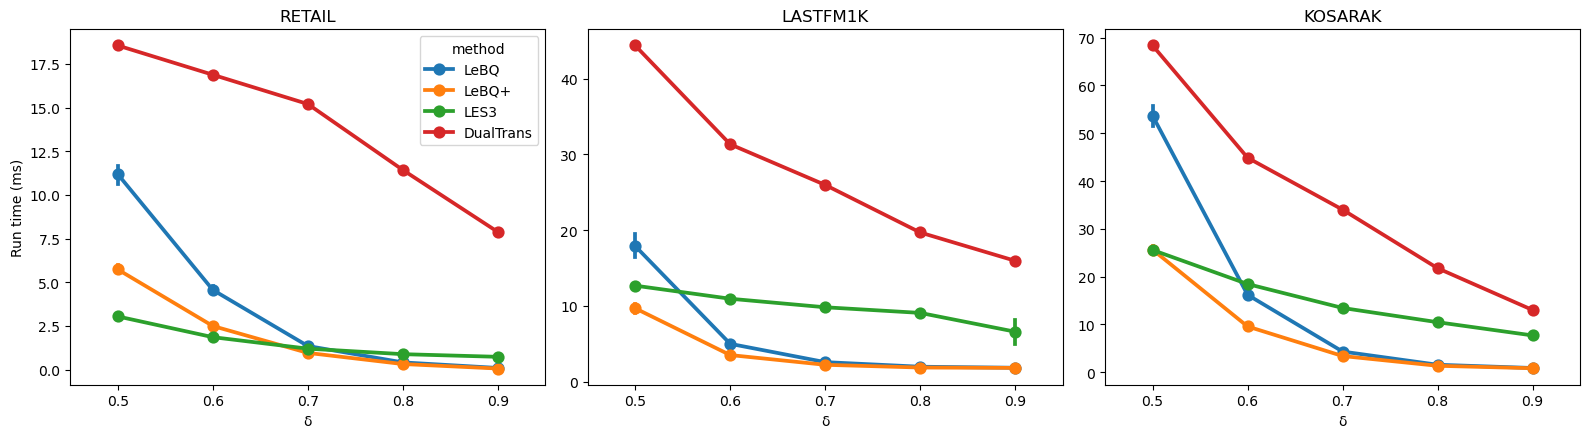
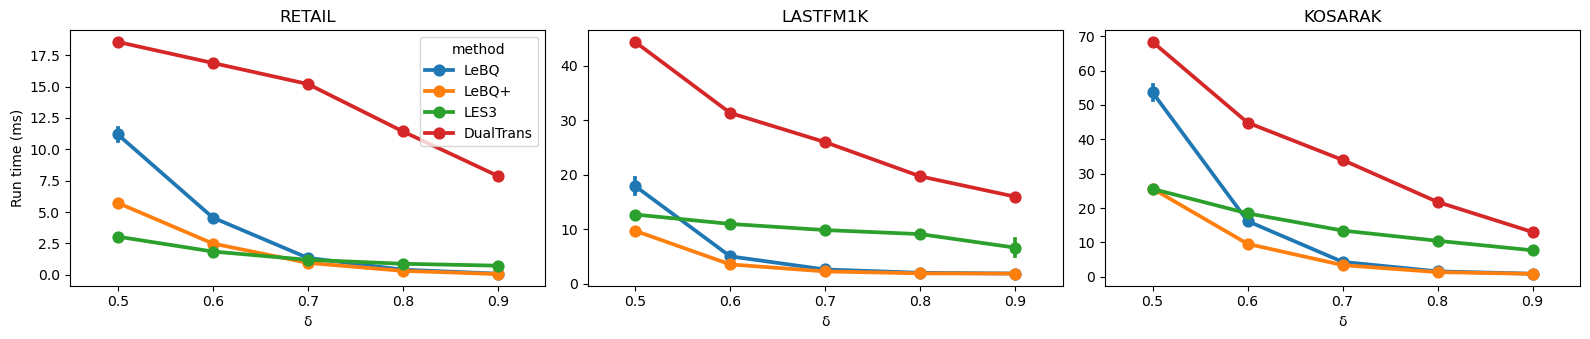
Update figure size

diff --git a/scripts/plot_results_all.py b/scripts/plot_results_all.py
@@ -4,7 +4,7 @@ import seaborn as sns
 import matplotlib.pyplot as plt
 
 DATASETS = ["retail", "lastfm1k", "kosarak"]
-FIG_SIZE = (16, 4.5)
+FIG_SIZE = (16, 3.5)
 
 os.makedirs("results/figs", exist_ok=True)
 
@@ -148,7 +148,7 @@ save_pointplot_across_datasets(
     y="avg_ms",
     hue="method",
     xlabel="M",
-    ylabel="Query time (ms)",
+    ylabel="Run time (ms)",
     output_path="results/figs/m_experiment_all.png",
     order_col="M",
 )
